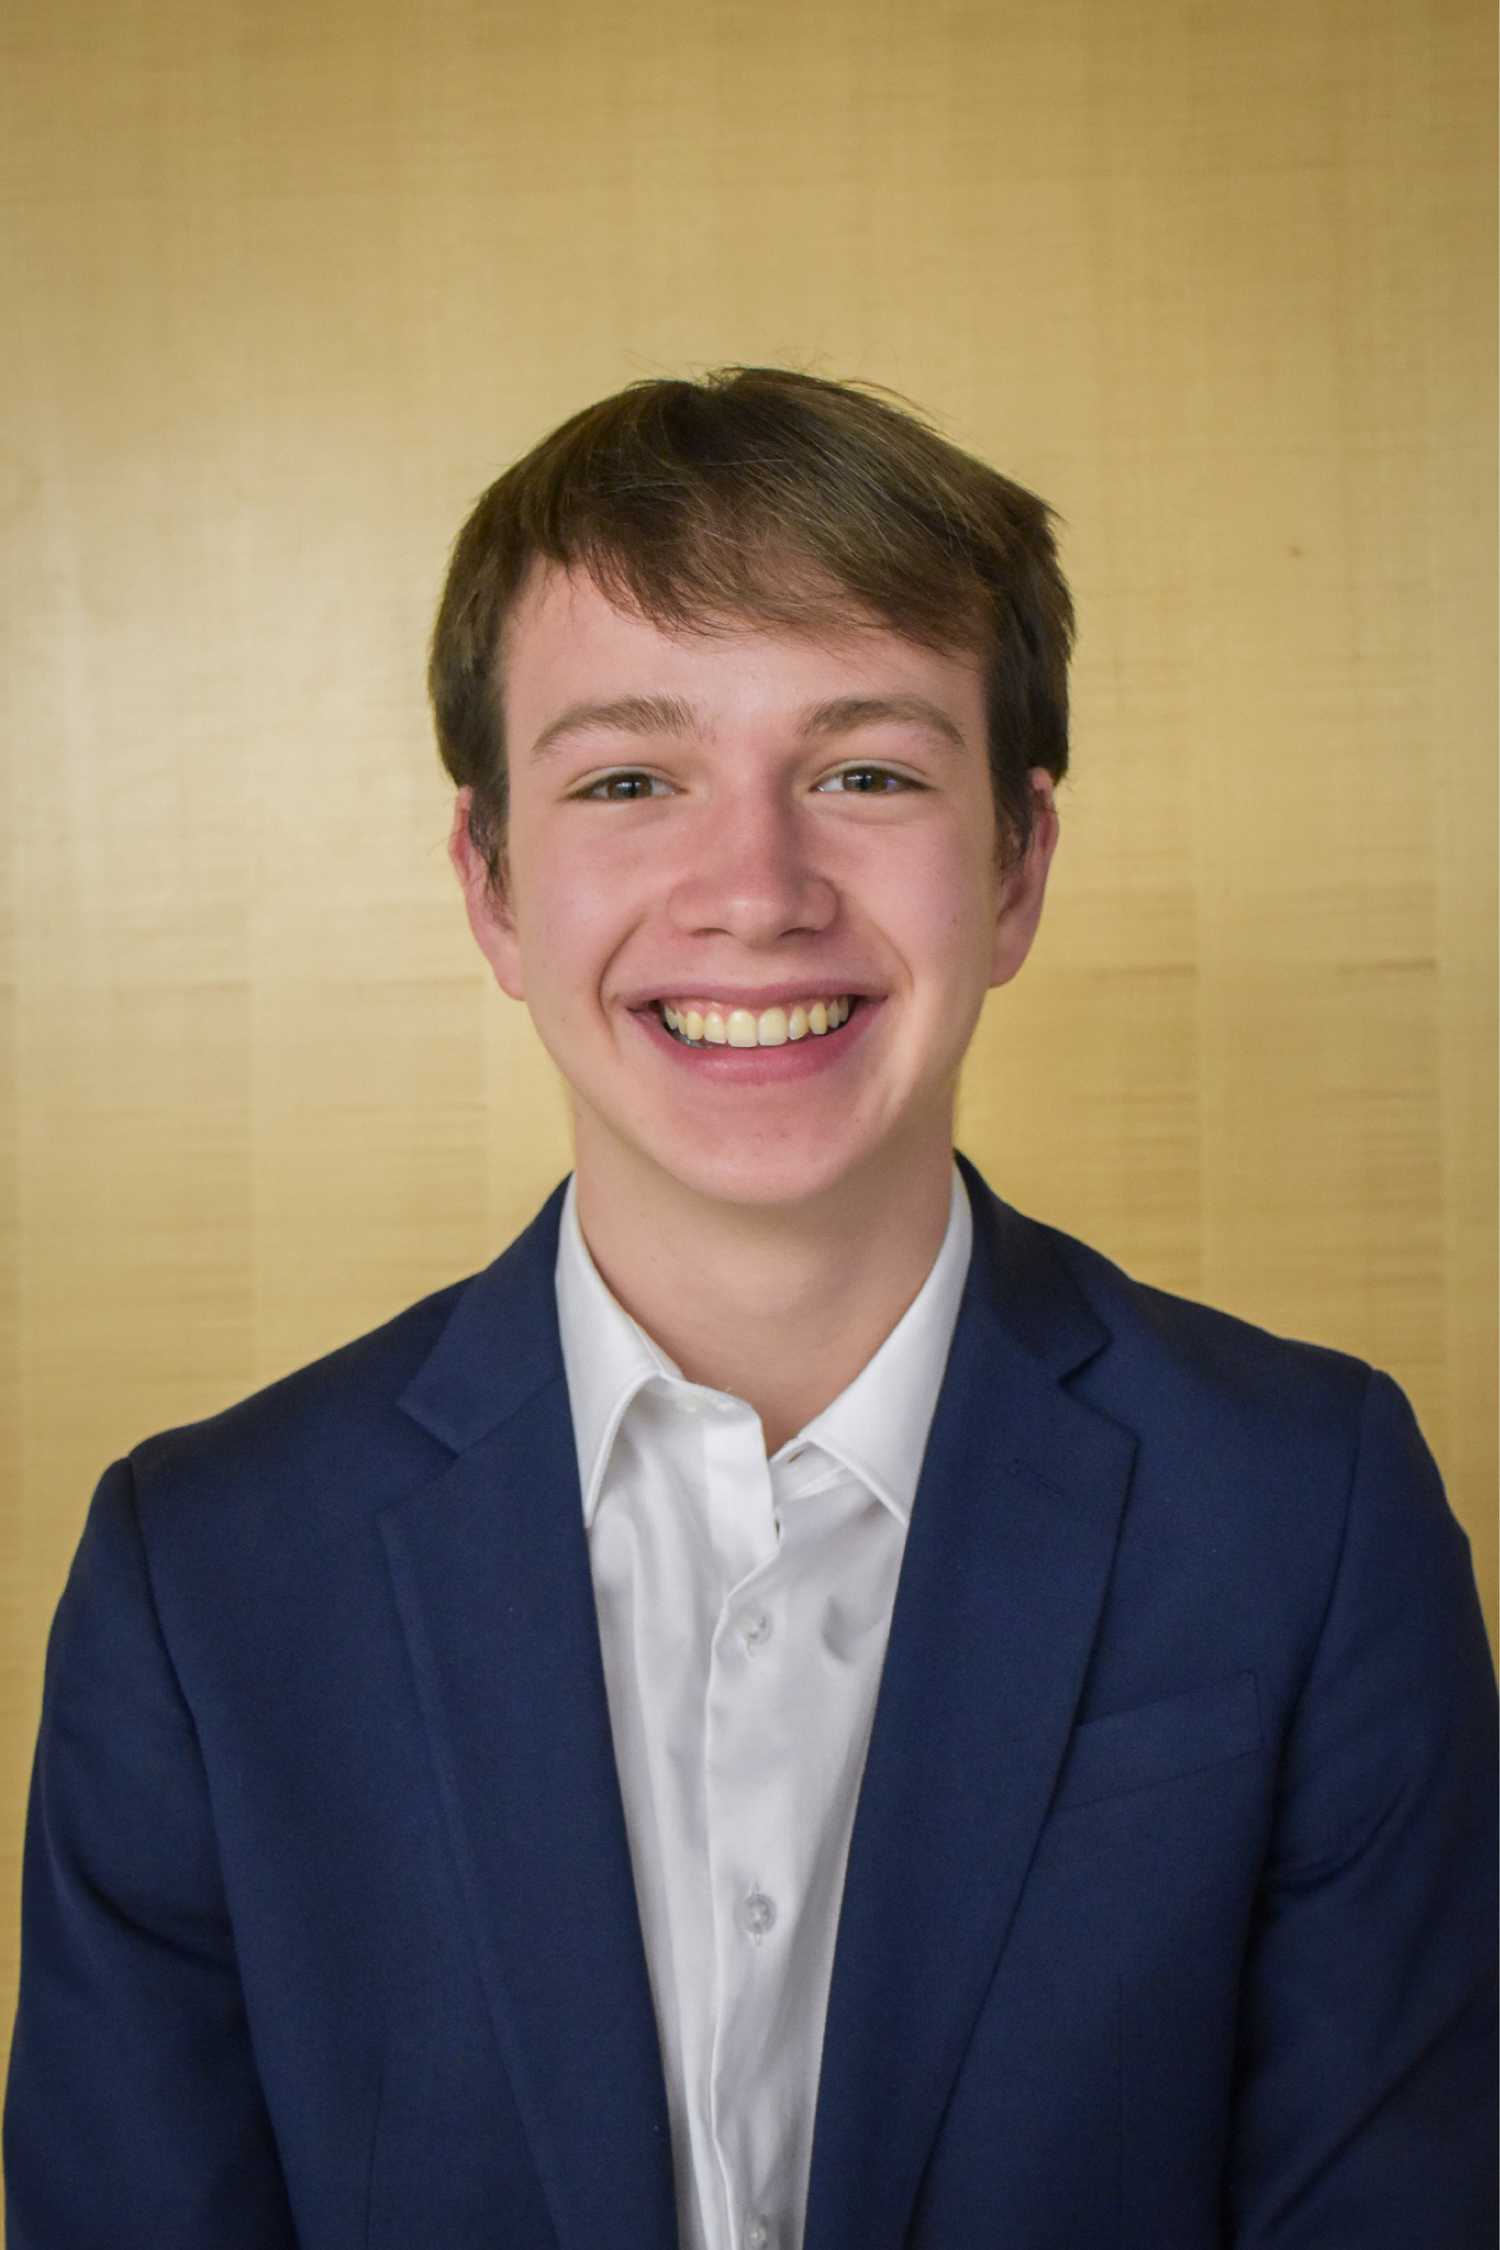
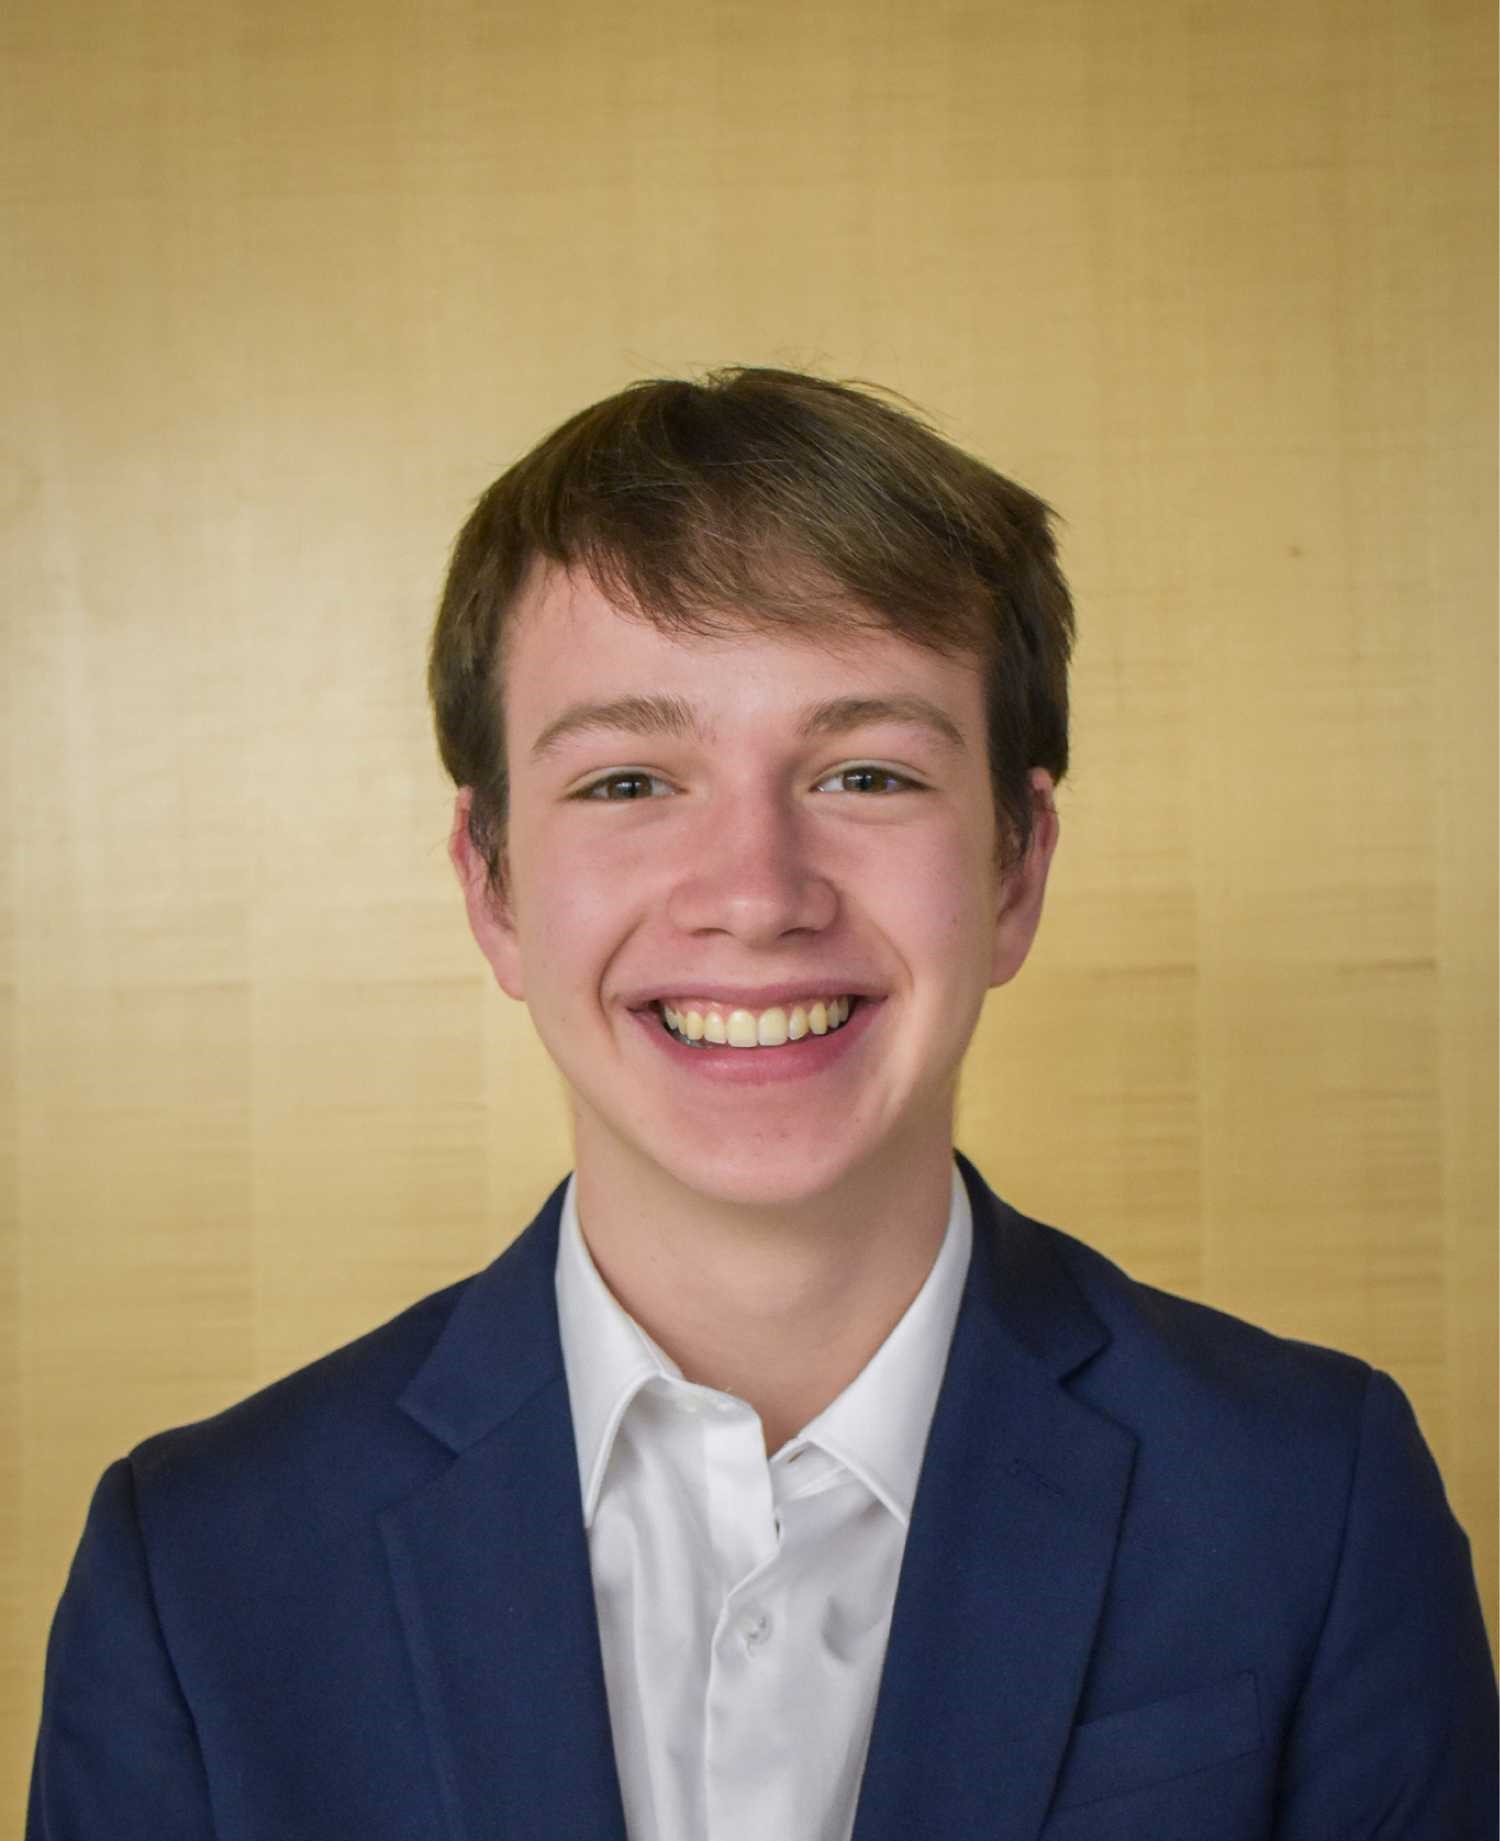
updating secretariat bios

diff --git a/site/app/about/page.jsx b/site/app/about/page.jsx
@@ -9,7 +9,7 @@ export const metadata = {
 }
 
 async function AboutUs() {
-    const secretariat = await fetchStaticJSON("/app/data/secretariat.json");
+    const secretariat = await fetchStaticJSON("/app/data/secretariat_2.json");
 
     return (
         <main className="">
@@ -18,7 +18,7 @@ async function AboutUs() {
                     <h1 className="aboutTitle">About Us</h1>
             </div>
             
-            <img className="aboutImg" src={"/Images/AboutUsGroupPhoto2.JPG"} />
+            <img className="aboutImg" src={"/Images/About2.JPG"} />
 
 
             <section className= "container mt-3">
